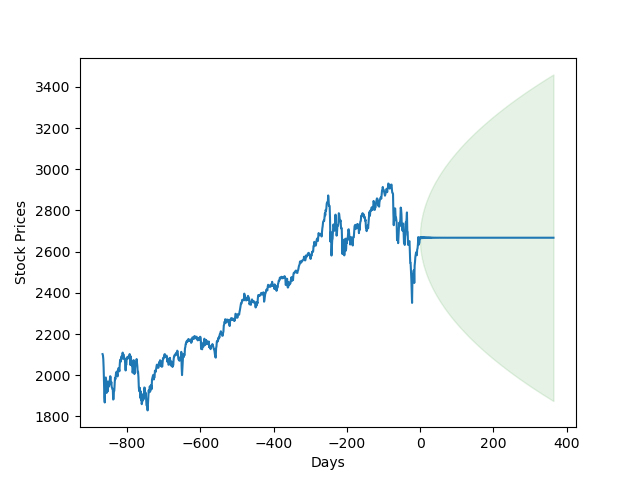
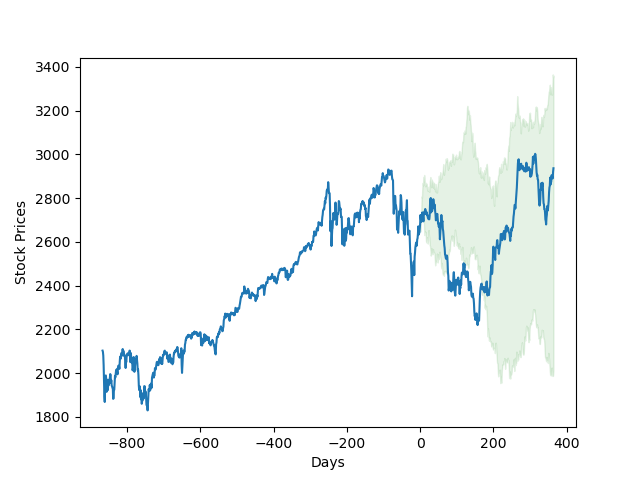
* Developed ARIMA model * Developing Lasso-based model

diff --git a/models.py b/models.py
@@ -9,6 +9,7 @@ from sklearn.linear_model import Lasso
 
 # ARIMA
 from statsmodels.graphics.tsaplots import plot_acf, plot_pacf
+from statsmodels.tsa.arima.model import ARIMA
 import pmdarima as pm
 
 
@@ -176,7 +177,7 @@ class GBMForecaster(Forecaster):
         dur = test.shape[0]
         preds = self.simulate(dur)
         mses = [np.average((preds[i] - test['Adj Close']) ** 2) for i in range(preds.shape[0])]
-        mapes = [np.average((preds[i] - test['Adj Close']) ** 2 / preds[i])
+        mapes = [np.average(abs(preds[i] - test['Adj Close']) / preds[i])
                  for i in range(preds.shape[0])]
         return min(mapes), min(mses)
 
@@ -240,9 +241,9 @@ class LassoForecaster(Forecaster):
         :param train: A dataframe of training stock price and its predictors
         :return: None
         """
-        # Copy stock price info
-        s = train['Adj Close']
-        self.s0 = s.iloc[-1]
+        # Copy stock price info to attributes
+        self.history = train['Adj Close']
+        self.s0 = self.history.iloc[-1]
 
         # Drop the date to obtain predictors
         self.raw_predictors = train.drop(['Date'], axis=1)
@@ -313,7 +314,7 @@ class LassoForecaster(Forecaster):
         responses = test['Adj Close'].values
         pred = self.predict(dur=dur)
         mse = np.average((pred - responses) ** 2)
-        mape = np.average((pred - responses) ** 2 / pred)
+        mape = np.average(abs(pred - responses) / pred)
         return mape, mse
 
     def predict(self, dur=0, raw_predictors=None):
@@ -352,10 +353,9 @@ class LassoForecaster(Forecaster):
             # Delete the first row and append
             raw_diff_predictors = raw_diff_predictors[1:].reset_index().iloc[:, 1:]
 
-        return prediction
+        return prediction.values
 
     def conf_int(self, n_period, alpha):
-        # TODO: Finish CI bootstrapping
         """
         Function computing the confidence interval of the Lasso regression
         :param n_period: Number of period of prediction
@@ -367,15 +367,11 @@ class LassoForecaster(Forecaster):
         # Collection of predictions over the scenarios
         predictions = pd.DataFrame()
 
-        for _ in range(self.params['SCENE_SIZE']):
-            # Bootstrapping sample from predictors and
-            sample = raw_predictors.sample(frac=1, replace=True)
-            pred = self.predict(dur=self.dur, raw_predictors=sample)
-            # Append predictions to the collection
-            predictions = predictions.append(dict(zip(predictions.columns, pred)), ignore_index=True)
+        predictions = [self.predict(dur=n_period, raw_predictors=raw_predictors.sample(frac=1, replace=True).values)
+                       for _ in range(self.params['SCENE_SIZE'])]
 
         # Select the scenarios with (alpha)th quantile and (1-alpha)th quantile of stock price
-        predictions_mean = np.mean(predictions, axis=0)
+        predictions_mean = np.mean(predictions, axis=1)
         predictions_mean_sorted = np.sort(predictions_mean)
         # Fetch the scenario number of (alpha)th quantile and (1-alpha)th quantile
         lower = predictions_mean_sorted[round((len(predictions_mean_sorted) - 1) * alpha)]
@@ -431,26 +427,34 @@ class ArimaForecaster(Forecaster):
         series = train['Adj Close']
         # Record stock price series
         self.history = series
-        self.model = pm.auto_arima(series, start_p=1, start_q=1,
+        auto_model = pm.auto_arima(series, start_p=1, start_q=1,
                                    max_p=3, max_q=3, m=12,
                                    start_P=0, seasonal=False,
                                    d=self.d, D=1, trace=True,
                                    error_action='ignore',
                                    suppress_warnings=True,
                                    stepwise=True)
+        self.model = ARIMA(series, order=auto_model.order)
 
-        self.results = self.model.fit(series, disp=0)
+        self.results = self.model.fit()
 
     def predict(self, n_period):
-        pred = self.model.predict(n_period)
+        # Start of prediction, end of training samples
+        start = len(self.history)
+        pred = self.results.simulate(nsimulations=n_period, anchor=start).values
         return pred
 
     def validate(self, test):
+        """
+        Test the predictive capability of the model with the testing datasets
+        :param test: Testing data
+        :return: MSE and MAPE
+        """
         n_period = test.shape[0]
         pred = self.predict(n_period)
         responses = test['Adj Close'].values.reshape(-1, 1)
         mse = np.average((pred - responses) ** 2)
-        mape = np.average((pred - responses) ** 2 / responses)
+        mape = np.average(abs(pred - responses) / responses)
         return mape, mse
 
     def conf_int(self, n_period, alpha=0.05):
@@ -460,8 +464,27 @@ class ArimaForecaster(Forecaster):
         :param alpha: Significance level of confidence interval
         :return: None
         """
-        _, conf_int = self.model.predict(n_period, return_conf_int=True, alpha=alpha)
-        return conf_int[:, 0], conf_int[:, 1]
+
+        # Start of prediction, end of training samples
+        start = len(self.history)
+
+        preds = [self.results.simulate(nsimulations=n_period, anchor=start).values
+                 for _ in range(self.params['SCENE_SIZE'])]
+
+        # Select the scenarios with (alpha)th quantile and (1-alpha)th quantile of stock price
+        preds_mean = np.mean(preds, axis=1)
+        preds_mean_sorted = np.sort(preds_mean)
+        # Fetch the scenario number of (alpha)th quantile and (1-alpha)th quantile
+        lower = preds_mean_sorted[round((len(preds_mean_sorted) - 1) * alpha)]
+        upper = preds_mean_sorted[round((len(preds_mean_sorted) - 1) * (1 - alpha))]
+        lower = np.where(preds_mean == lower)[0][0]
+        upper = np.where(preds_mean == upper)[0][0]
+
+        # Obtain the stock (alpha)th quantile and (1-alpha)th stock price series with the index obtained
+        lower = preds[lower]
+        upper = preds[upper]
+
+        return lower, upper
 
     def summary(self):
-        print(self.model.summary())
+        print(self.results.summary())

diff --git a/main.py b/main.py
@@ -22,18 +22,17 @@ DATA_PATH_HSI = "data/HSI_aug_15to20.csv"
 
 """ Model parameters"""
 PARAMS = {
-    # TODO: Exclude weekends in the prediction plot
     'START_DATE': "2015-08-17",
     "END_DATE": "2020-07-17",
     'PRED_END_DATE': "2021-07-21",
     "PRED_DUR": 365,
     "SERIES_NAME": "SP500",
     "MODEL_NAME": "Lasso",
-    "SCENE_SIZE": 100,
+    "SCENE_SIZE": 10,
     "ALPHA": 0.05,
     "PLOT_CI": True,
     "d": 0,  # Initial rate of differencing parameter
-    "LAG": 10  # Manual tuning
+    "LAG": 3  # Manual tuning
 }
 # --------------------------------------------------
 #                    Load Data
